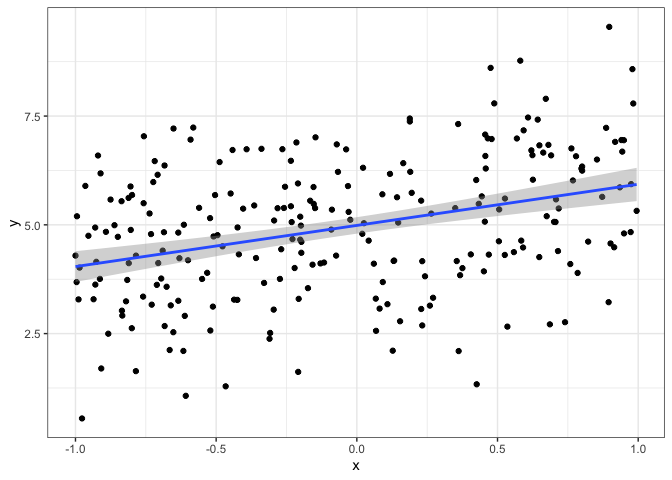
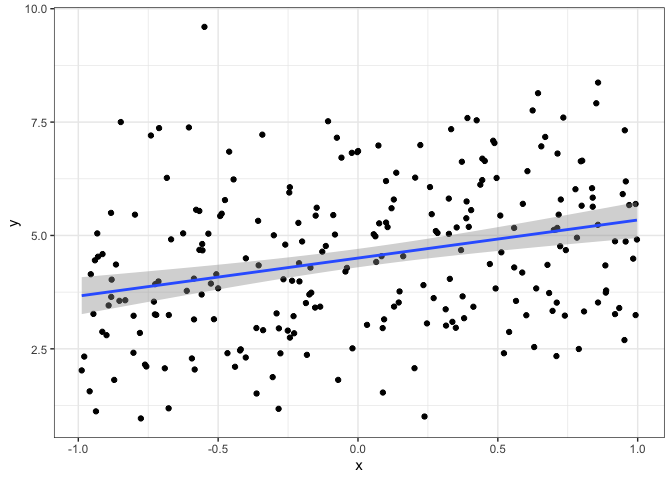
Add files via upload
update to include code in md

diff --git a/HierarchicalModels_DemoKey.md b/HierarchicalModels_DemoKey.md
@@ -4,77 +4,124 @@ Hierarchical Models Demo
 1.  Simulate data from a “random slopes, random intercept” model
     framework.
 
-2.  Create a plot that displays the simulated data, in this figure
+``` r
+m <- 12 # number of groups
+mu_alpha <- 5
+sigmasq_alpha <- 1
+alpha <- rnorm(m, mu_alpha, sigmasq_alpha)
+
+mu_beta <- 1
+sigmasq_beta <- 1
+beta <- rnorm(m, mu_beta, sigmasq_beta)
+
+
+n <- 20
+x <- runif(n * m, -1, 1)
+
+mean_val <- rep(alpha, each =n) + x * rep(beta, each = n)
+y <- rnorm(m * n, mean = mean_val, sd = 1 )
+
+hm_dat <- tibble( y = y, x = x, group = factor(rep(1:m, each = n)) )
+```
+
+1.  Create a plot that displays the simulated data, in this figure
     ignore the groups.
+
+``` r
+hm_dat %>% ggplot(aes(y=y, x=x)) +
+  geom_point()  + geom_smooth(formula = 'y~x', method = 'lm') + theme_bw() 
+```
 
 ![](HierarchicalModels_DemoKey_files/figure-gfm/unnamed-chunk-2-1.png)<!-- -->
 
-3.  Now create a figure (faceted and/or colored) that highlights the
+1.  Now create a figure (faceted and/or colored) that highlights the
     group differences.
+
+``` r
+hm_dat %>% ggplot(aes(y=y, x=x, color = group)) +
+  geom_point() + facet_wrap(.~ group) + geom_smooth(formula = 'y~x', method = 'lm') +
+  theme_bw() + theme(legend.position = 'none')
+```
 
 ![](HierarchicalModels_DemoKey_files/figure-gfm/unnamed-chunk-3-1.png)<!-- -->
 
-4.  Fit the model and compare the estimated values with simulated values
+1.  Fit the model and compare the estimated values with simulated values
 
-<!-- end list -->
+``` r
+lmer_mod <- lmer(y ~ x + (1 + x|group), data = hm_dat)
+summary(lmer_mod)
+```
 
     ## Linear mixed model fit by REML ['lmerMod']
     ## Formula: y ~ x + (1 + x | group)
     ##    Data: hm_dat
     ## 
-    ## REML criterion at convergence: 773.7
+    ## REML criterion at convergence: 756.7
     ## 
     ## Scaled residuals: 
     ##      Min       1Q   Median       3Q      Max 
-    ## -2.83403 -0.66311  0.04714  0.60516  2.54362 
+    ## -2.51748 -0.67389 -0.07403  0.69062  2.85296 
     ## 
     ## Random effects:
     ##  Groups   Name        Variance Std.Dev. Corr
-    ##  group    (Intercept) 0.9646   0.9821       
-    ##           x           0.2627   0.5125   0.20
-    ##  Residual             1.2230   1.1059       
+    ##  group    (Intercept) 1.3311   1.1537       
+    ##           x           0.6128   0.7828   0.04
+    ##  Residual             1.0845   1.0414       
     ## Number of obs: 240, groups:  group, 12
     ## 
     ## Fixed effects:
     ##             Estimate Std. Error t value
-    ## (Intercept)   4.9835     0.2927  17.024
-    ## x             0.9323     0.1935   4.819
+    ## (Intercept)   4.5187     0.3402  13.282
+    ## x             0.8559     0.2570   3.331
     ## 
     ## Correlation of Fixed Effects:
     ##   (Intr)
-    ## x 0.165
+    ## x 0.031
+
+``` r
+coef(lmer_mod) 
+```
 
     ## $group
-    ##    (Intercept)         x
-    ## 1     6.580794 1.2490822
-    ## 2     5.696028 1.0946566
-    ## 3     4.520937 1.0374546
-    ## 4     6.202594 0.8177062
-    ## 5     3.249509 1.1384701
-    ## 6     4.746411 1.2282517
-    ## 7     4.933863 1.1960608
-    ## 8     4.547846 0.5849497
-    ## 9     5.013026 1.2434091
-    ## 10    5.524153 1.1843900
-    ## 11    3.705138 0.3004810
-    ## 12    5.082215 0.1130629
+    ##    (Intercept)          x
+    ## 1     3.606066  0.4580728
+    ## 2     6.134115  1.4099645
+    ## 3     3.958166  2.0752722
+    ## 4     3.573426  0.3379310
+    ## 5     6.518058 -0.2011935
+    ## 6     4.113780  1.1091299
+    ## 7     3.525618  1.1864100
+    ## 8     3.343530 -0.3083152
+    ## 9     5.152279  1.3506080
+    ## 10    5.994689  1.0619675
+    ## 11    4.203469  0.7292433
+    ## 12    4.101065  1.0618191
     ## 
     ## attr(,"class")
     ## [1] "coef.mer"
 
-    ##          alpha        beta
-    ##  [1,] 6.746733  1.24172919
-    ##  [2,] 5.733997  1.21640792
-    ##  [3,] 4.756321  1.47681431
-    ##  [4,] 5.950373  0.01774664
-    ##  [5,] 3.490705  1.38489891
-    ##  [6,] 4.493651  1.07413236
-    ##  [7,] 4.479156  1.55684187
-    ##  [8,] 4.807833  0.03034102
-    ##  [9,] 5.200753  1.00670834
-    ## [10,] 5.601263  1.45514827
-    ## [11,] 3.727343 -0.11927665
-    ## [12,] 5.090056  0.22837229
+``` r
+cbind(alpha, beta)
+```
+
+    ##          alpha       beta
+    ##  [1,] 3.687382  0.2967294
+    ##  [2,] 5.894598  0.6996909
+    ##  [3,] 3.924260  2.7692028
+    ##  [4,] 3.827991  0.5336841
+    ##  [5,] 6.096089 -0.3401407
+    ##  [6,] 4.242684  1.4296552
+    ##  [7,] 3.567909  1.4902418
+    ##  [8,] 3.356430 -0.5630050
+    ##  [9,] 5.212346  1.8776402
+    ## [10,] 5.991906  0.7665090
+    ## [11,] 4.246026  0.9403839
+    ## [12,] 4.083216  1.4912666
+
+``` r
+glmer_mod <- stan_glmer(y ~ x + (1 + x|group), data = hm_dat)
+print(glmer_mod)
+```
 
     ## stan_glmer
     ##  family:       gaussian [identity]
@@ -82,52 +129,60 @@ Hierarchical Models Demo
     ##  observations: 240
     ## ------
     ##             Median MAD_SD
-    ## (Intercept) 5.0    0.3   
-    ## x           0.9    0.2   
+    ## (Intercept) 4.5    0.4   
+    ## x           0.9    0.3   
     ## 
     ## Auxiliary parameter(s):
     ##       Median MAD_SD
-    ## sigma 1.1    0.1   
+    ## sigma 1.0    0.0   
     ## 
     ## Error terms:
     ##  Groups   Name        Std.Dev. Corr
-    ##  group    (Intercept) 1.07         
-    ##           x           0.62     0.15
-    ##  Residual             1.11         
+    ##  group    (Intercept) 1.27         
+    ##           x           0.93     0.03
+    ##  Residual             1.05         
     ## Num. levels: group 12 
     ## 
     ## ------
     ## * For help interpreting the printed output see ?print.stanreg
     ## * For info on the priors used see ?prior_summary.stanreg
 
+``` r
+coef(glmer_mod)
+```
+
     ## $group
-    ##    (Intercept)         x
-    ## 1     6.560998 1.2279451
-    ## 2     5.697707 1.0821870
-    ## 3     4.521794 1.0150817
-    ## 4     6.194494 0.8238903
-    ## 5     3.261554 1.1290004
-    ## 6     4.733528 1.1954295
-    ## 7     4.934108 1.1709417
-    ## 8     4.554808 0.6139310
-    ## 9     5.007053 1.2033829
-    ## 10    5.522579 1.1567158
-    ## 11    3.724894 0.3450367
-    ## 12    5.078636 0.1375139
+    ##    (Intercept)          x
+    ## 1     3.617072  0.4610914
+    ## 2     6.130063  1.3953837
+    ## 3     3.958195  2.0591540
+    ## 4     3.574130  0.3458137
+    ## 5     6.513112 -0.1787809
+    ## 6     4.118946  1.1200273
+    ## 7     3.534643  1.1761843
+    ## 8     3.339293 -0.3063068
+    ## 9     5.140266  1.3498487
+    ## 10    5.986992  1.0462757
+    ## 11    4.206329  0.7430814
+    ## 12    4.100017  1.0619801
     ## 
     ## attr(,"class")
     ## [1] "coef.mer"
 
-    ##          alpha        beta
-    ##  [1,] 6.746733  1.24172919
-    ##  [2,] 5.733997  1.21640792
-    ##  [3,] 4.756321  1.47681431
-    ##  [4,] 5.950373  0.01774664
-    ##  [5,] 3.490705  1.38489891
-    ##  [6,] 4.493651  1.07413236
-    ##  [7,] 4.479156  1.55684187
-    ##  [8,] 4.807833  0.03034102
-    ##  [9,] 5.200753  1.00670834
-    ## [10,] 5.601263  1.45514827
-    ## [11,] 3.727343 -0.11927665
-    ## [12,] 5.090056  0.22837229
+``` r
+cbind(alpha, beta)
+```
+
+    ##          alpha       beta
+    ##  [1,] 3.687382  0.2967294
+    ##  [2,] 5.894598  0.6996909
+    ##  [3,] 3.924260  2.7692028
+    ##  [4,] 3.827991  0.5336841
+    ##  [5,] 6.096089 -0.3401407
+    ##  [6,] 4.242684  1.4296552
+    ##  [7,] 3.567909  1.4902418
+    ##  [8,] 3.356430 -0.5630050
+    ##  [9,] 5.212346  1.8776402
+    ## [10,] 5.991906  0.7665090
+    ## [11,] 4.246026  0.9403839
+    ## [12,] 4.083216  1.4912666
